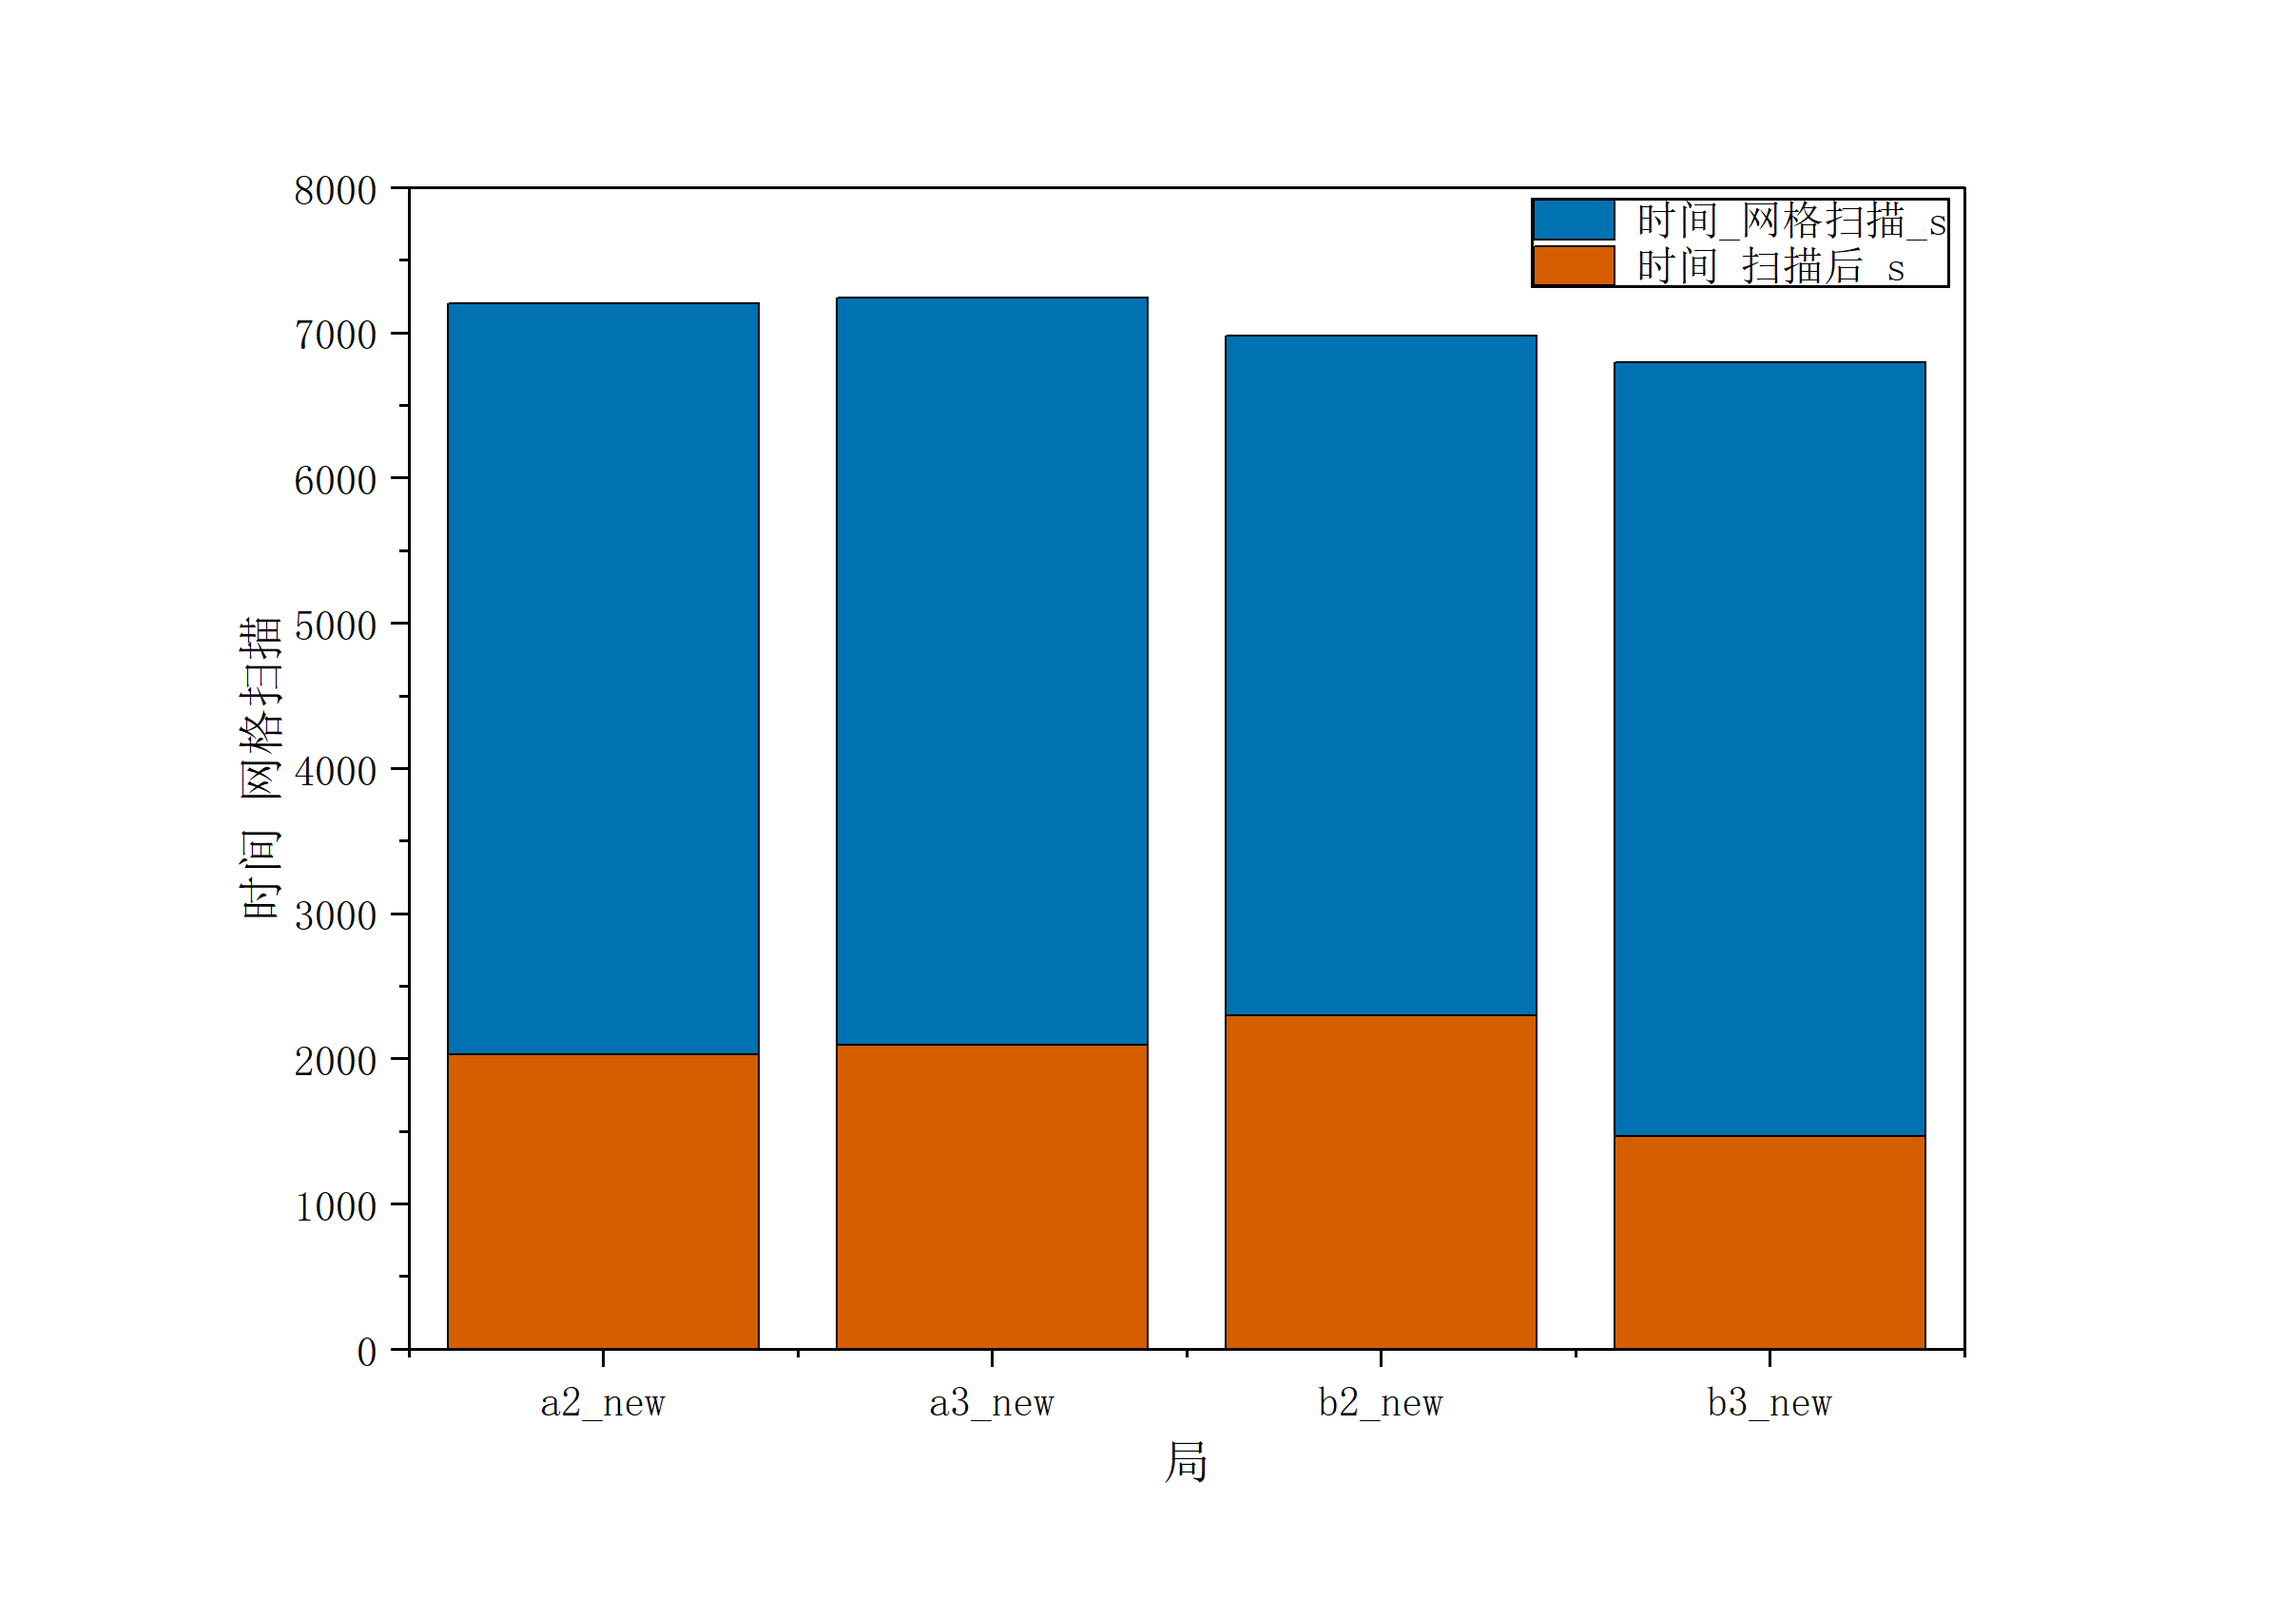
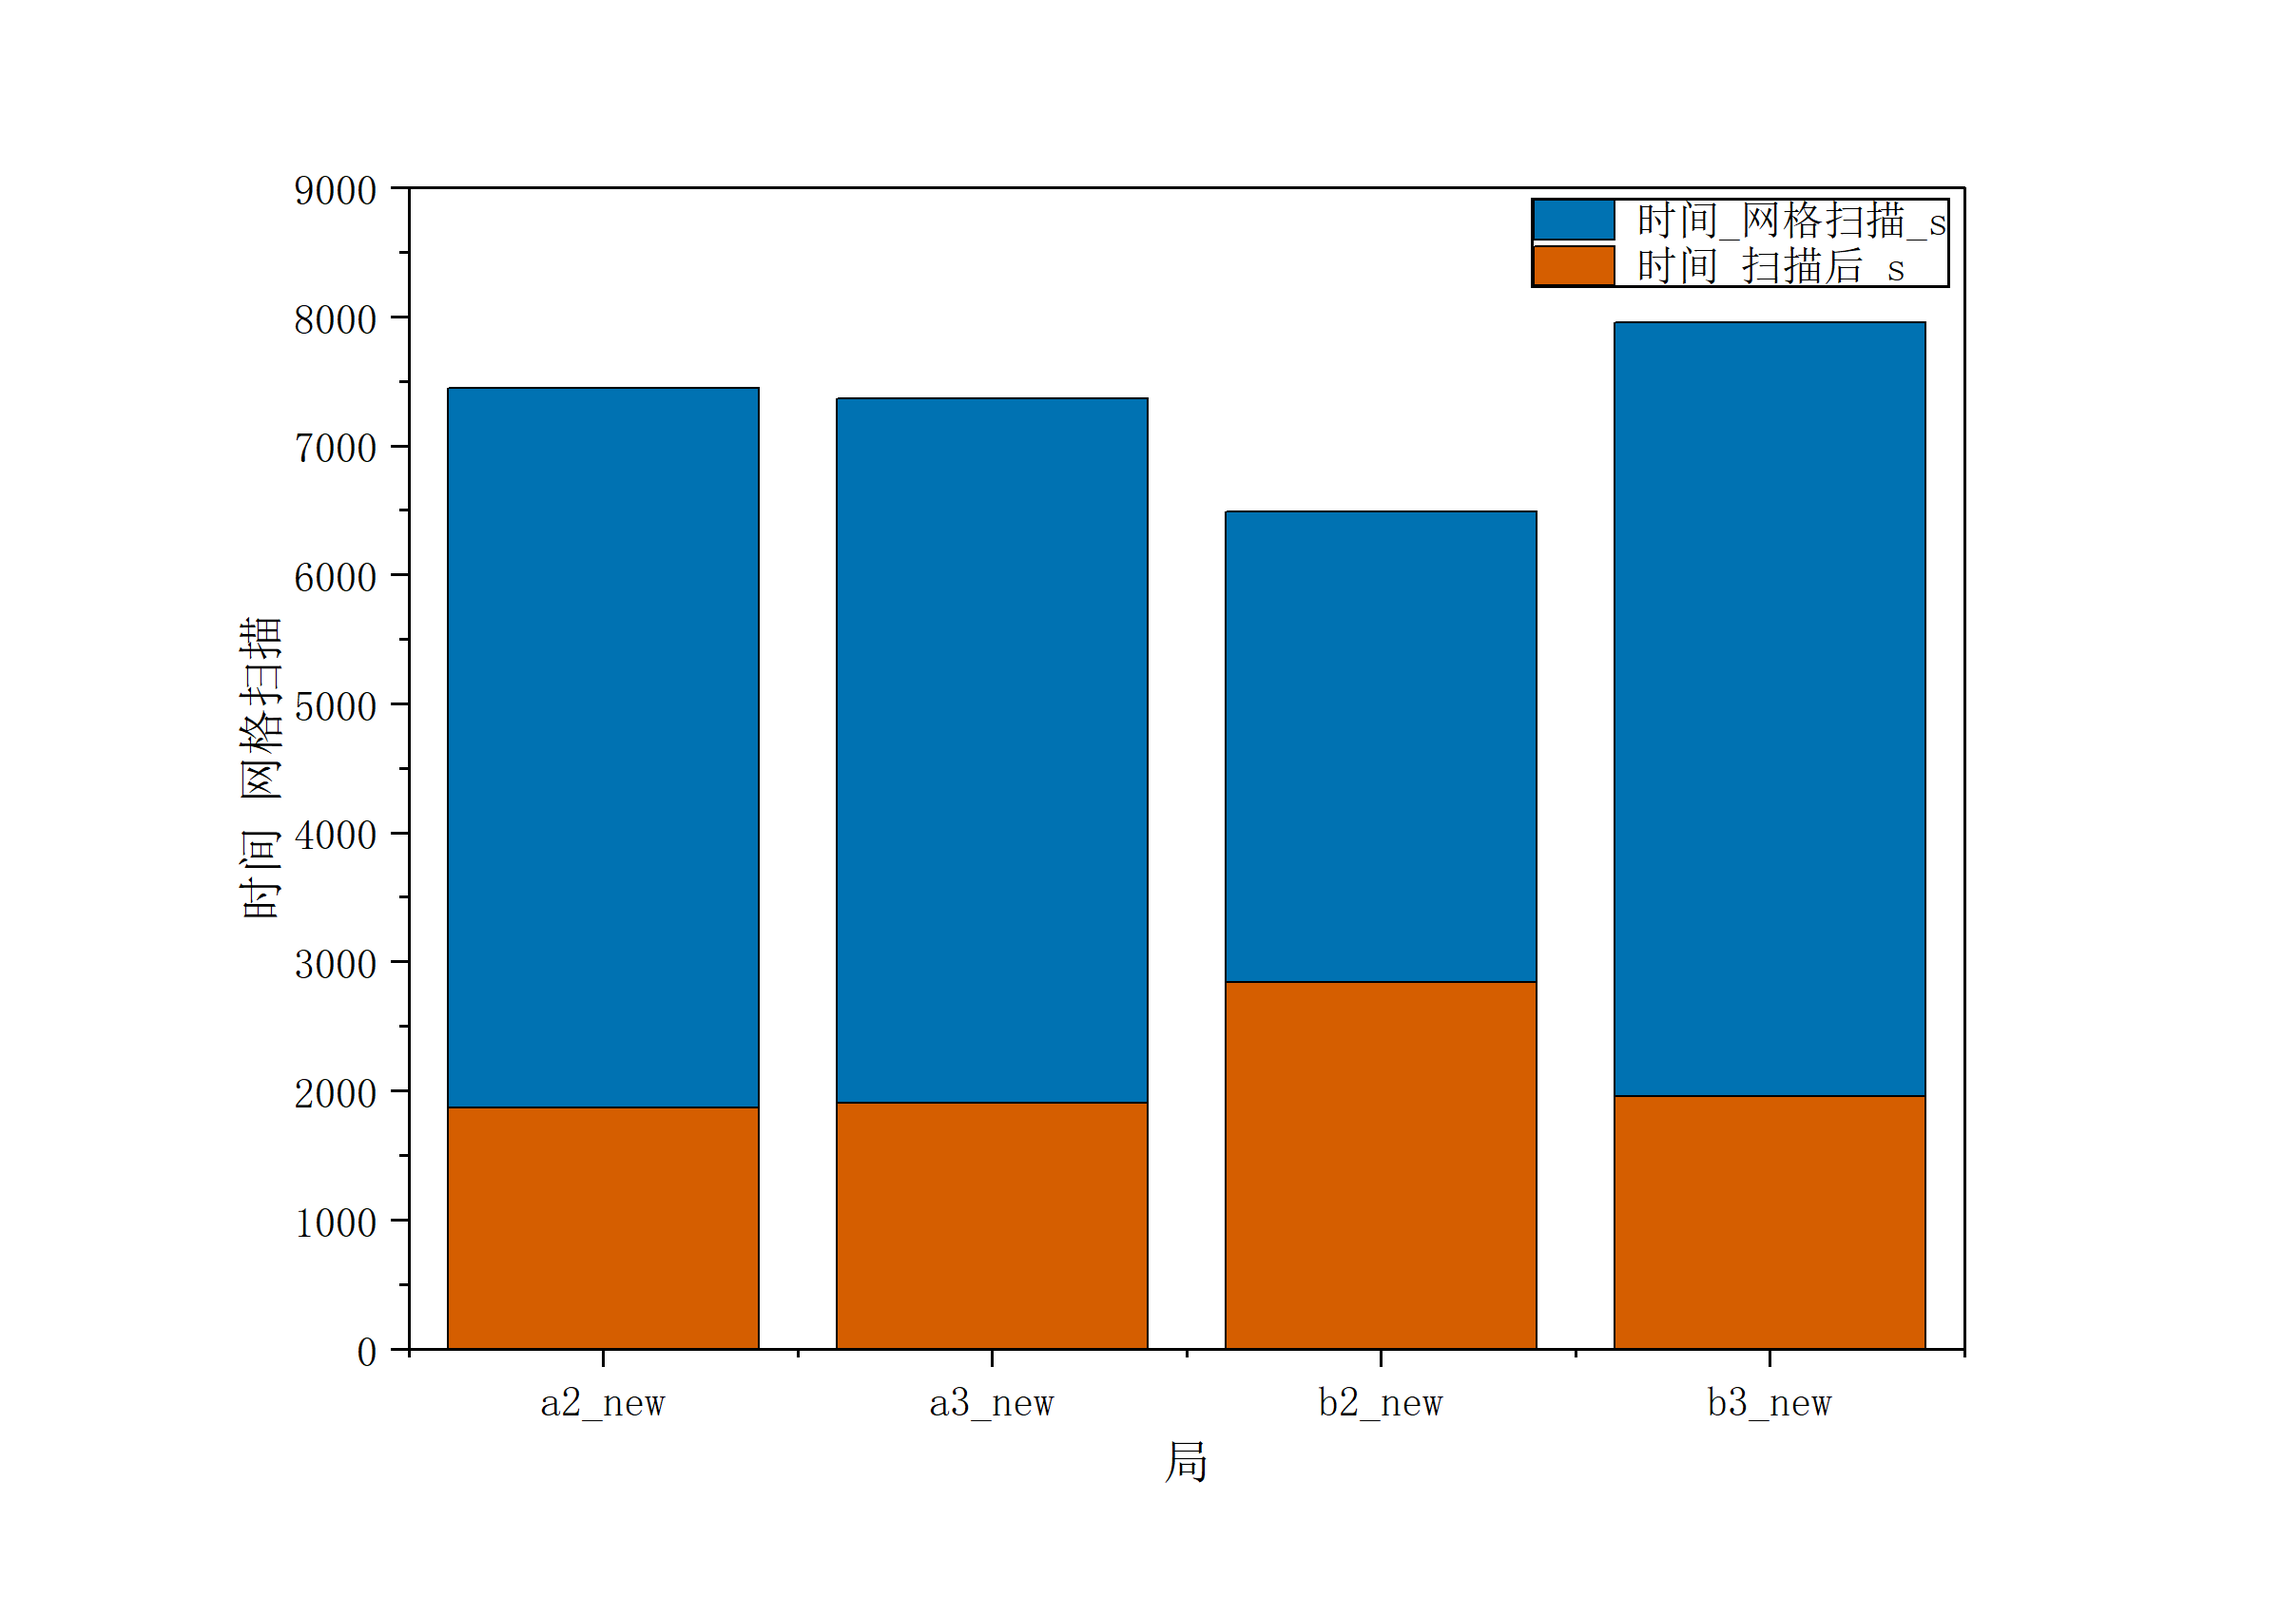
第三项完成(实机重跑): 最终配置 29点 vs 旧31点 实机交错 A/B 8局有效 -> 总时间 10686->9456s(-11.5%), 每源 850.6->707.8s(-16.8%), 网格扫描固定成本 8340->7314s(-12.3%), 区间不重叠, 8/8全清零未解决; 剔除1局模拟器接口未开放的无效局并补跑; fig02按最终数据重绘

diff --git a/problem4_robot/robot4.py b/problem4_robot/robot4.py
@@ -1297,7 +1297,13 @@ def main(argv=None):
                     help="临时覆盖网格几何 'a,margin,theta,offx,offy'(如实机 A/B; "
                          "旧网格为 '900,800,0,0,0'; 不传则用默认 920,700,20,460,398)")
     ap.add_argument("--mesh-stats", action="store_true", help="只打印网格统计后退出")
+    ap.add_argument("--no-mesh-extra", dest="no_mesh_extra", action="store_true",
+                    help="关闭网格覆盖补齐点(仅用于 A/B 对照; 默认开启, 关闭即退回原网格)")
     args = ap.parse_args(argv)
+
+    if args.no_mesh_extra:
+        Problem4Robot.MESH_EXTRA_PTS = []
+        print("[config] MESH_EXTRA_PTS=[] (A/B 对照: 不含覆盖补齐点)", flush=True)
 
     # 顺路清除阈值: 默认不变; 仅当显式传参时覆盖(用于 δ A/B 风险复核)
     if args.on_way_delta is not None:
@@ -1305,10 +1311,10 @@ def main(argv=None):
     print(f"[config] on_way_delta={ON_WAY_DELTA}", flush=True)
 
     if args.mesh_stats:
-        rb = Problem4Robot.__new__(Problem4Robot)
-        rb.pts = tri_mesh(margin=MESH_MARGIN); rb.tris = build_triangles(rb.pts)
-        rb.cover_tris = covering_triangles(rb.tris, rb.pts)
-        print(f"网格点数={len(rb.pts)} 三角形数={len(rb.tris)} 需证伪={len(rb.cover_tris)}")
+        # 必须走真实构造路径, 否则漏掉 MESH_EXTRA_PTS 与 --mesh 覆盖(曾恒报 27 点)
+        rb = Problem4Robot(None)
+        print(f"网格点数={len(rb.pts)} 三角形数={len(rb.tris)} 需证伪={len(rb.cover_tris)} "
+              f"(含补齐点 {len(getattr(Problem4Robot, 'MESH_EXTRA_PTS', []) or [])} 个)")
         return
 
     if args.mesh:
